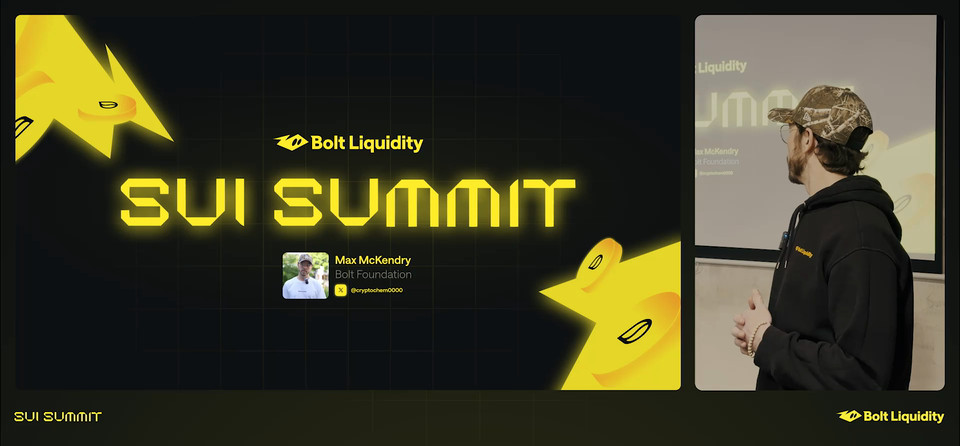
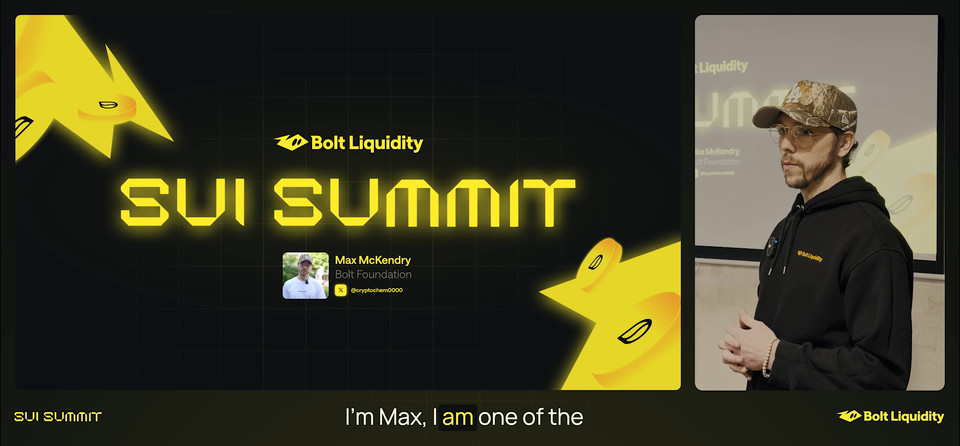
Version 2.0: new posters for the Trezor and Sui Summit tiles
- Trezor paper airplane: the poster is now 0:00.38, inside the loop's first
  second, as the opening reveal widens around John signaling to the camera
  (was 0:02.71, the leap toward the pool). A hover preview now starts from
  nearly the same moment.
- Sui Summit presentation: the poster is now 0:01.92, the speaker facing
  the room as he introduces himself (was the first frame, turned toward the
  slide).
- Both cut from the masters at their loop's crop and aspect ratio. Manifest
  source notes and the README updated.

Claude-Session: https://claude.ai/code/session_012o4gr838dd5SnCneLJbCYq

diff --git a/README.md b/README.md
@@ -490,9 +490,10 @@ formal title for the Phi Labs role is still "Social Media Manager", on the resum
   ratio (1600 px wide for the primaries, 960 for the secondaries, 720 for the architecture), served as a
   lazy AVIF or WebP picture under the video, with the same fit and focus, so poster and loop fill the
   tile identically: Costa Rica 1:29.32, the first sharp frame of the opening pool shot (its first
-  frames are motion blurred); Trezor 0:02.71, as the creator leaps for the pool; Bolt Bus 0:11.55, the
-  bus under its caption; Sui Fest 0:27.49, the captioned question; and the first frame of the hero,
-  architecture and presentation loops. The website hero motion and the slippage preview keep their
+  frames are motion blurred); Trezor 0:00.38, John signaling to the camera as the opening reveal widens;
+  Bolt Bus 0:11.55, the bus under its caption; Sui Fest 0:27.49, the captioned question; the Sui Summit
+  presentation 0:01.92, the speaker facing the room rather than turned toward the slide; and the first
+  frame of the hero and architecture loops. The website hero motion and the slippage preview keep their
   approved posters. No video carries a `poster` attribute, which browsers fetch at once.
 - The architecture loop is contained like the still it replaced: the whole frame, as tall as the panel
   less a little room, centered on its own plate (`#0D1012`, the recording's background) with the same
